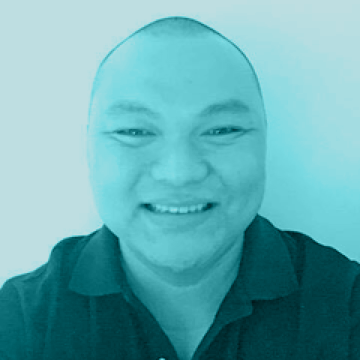
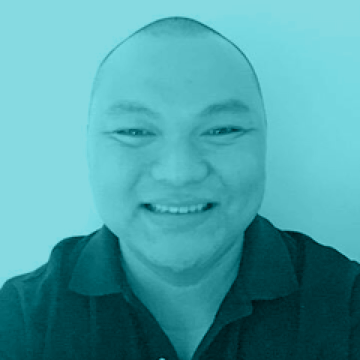
Reminders, speakers, partners

diff --git a/about/index.md b/about/index.md
@@ -16,7 +16,11 @@ The name FFC alludes to the 3 elements of a website (\<form\> from HTML, functio
 
 As the pioneering web design conference in the country and this side of the world, we have drawn crowds of over 300 professionals & students each year from the fields of design, development, IT, marketing, user experience, interaction design, mobile, business, and more.
 
-<a target="_blank" href="https://www.eventbrite.com/e/form-function-class-7-conference-tickets-24640606718#tickets">Get your ticket now</a>!
+<a target="_blank" href="https://www.eventbrite.com/e/form-function-class-7-conference-tickets-24640606718#tickets">Get your tickets now</a>! Registration closes on October 16.
+
+## Reminders
+
+Please take note of our important <a href="/reminders/">Reminders</a> for the event.
 
 ## Venue
 
@@ -51,7 +55,7 @@ Would you like to support FFC7? Reach out to our attendees, our audience on soci
 ## FAQ
 
 ### When does registration close?
-Registration closes on October 16, so get your tickets now!
+Registration closes on October 16, so <a target="_blank" href="https://www.eventbrite.com/e/form-function-class-7-conference-tickets-24640606718#tickets">get your tickets now</a>!
 
 ### For whom is this conference?
 Web designers, front-end designers & developers, user interface designers, interaction designers, mobile designers, user experience designers, graphic designers, web developers, webmasters, bloggers, marketers, social media managers who do web design, media practitioners, students in information technology, visual communication, multimedia arts, human computer interaction, and other related professions. If you work on web and mobile interfaces, FFC is for you.
@@ -101,7 +105,7 @@ Once deposited, please send an email with proof of payment to <a target="_blank"
 Please allow for at least 24 hours processing time.
 
 ### Can I get a student discount?
-Student tickets are available at the following discounted rates until October 16 through [offline payment](#can-i-pay-offline) & our student partner, <a target="_blank" href="http://dlsu-lscs.org/">La Salle Computer Society</a>:
+Student tickets are available at the following discounted rates until October 16 through [offline payment](#can-i-pay-offline) & our student partners, <a target="_blank" href="http://dlsu-lscs.org/">La Salle Computer Society</a> &amp; <a target="_blank" href="https://www.facebook.com/ustcodec/">UST CODEC</a>:
 
 - Conference (Oct 22) - 2,000
 - Masterclass (Oct 23) - 3,000
@@ -142,7 +146,7 @@ You're awesome! You can follow us on
 <a target="_blank" href="http://blog.pwdo.org">Tumblr</a> and share our posts there :) You can also use our <a target="_blank" href="https://github.com/pwdo/FFC-Social-Media">banners and avatars</a> to show your support for the event.
 
 ### Are you a legitimate organization?
-Yes, the Philippine Web Designers Organization, Inc. has been registered with the SEC as a non-profit organization since 2009, with BIR TIN 007-274-276.
+Yes, the Philippine Web Designers Organization, Inc. has been registered with the SEC as a non-profit organization since 2009, with BIR TIN 007-274-276 (NONVAT).
 
 ### I have more questions!
 Please send us an email at <a target="_blank" href="mailto:info@pwdo.org?subject=FFC7%20Question">info@pwdo.org</a>

diff --git a/speakers/index.md b/speakers/index.md
@@ -10,9 +10,9 @@ weight: 2
 
 # Speakers
 
-October 22 programme reminders: check-in registration starts at 7:30 am, doors will close at 8:50 am, and the first speaker shall begin at 9:00 am.
+October 22 programme reminders: check-in registration starts at 7:30 am, doors will close at 8:50 am, and the first speaker shall begin at 9:00 am. Please refer to the rest of our <a href="/reminders/">reminders here</a>.
 
-More speakers & details will be announced soon. <a target="_blank" href="https://www.eventbrite.com/e/form-function-class-7-conference-tickets-24640606718#tickets">Register for FFC7 now</a>!
+<a target="_blank" href="https://www.eventbrite.com/e/form-function-class-7-conference-tickets-24640606718#tickets">Get your FFC7 tickets now</a>! Registration ends on October 16.
 
 ## Morning Sessions
 
@@ -48,7 +48,7 @@ More speakers & details will be announced soon. <a target="_blank" href="https:/
 
   <h4 id="russell-vergara"><a target="_blank" href="http://www.vgrafiks.com">Russell Vergara</a></h4>
 
-  <figure class="speaker-img"><img src="/assets/speaker-lindsey.png" alt="Lindsey Grande"></figure> 
+  <figure class="speaker-img"><img src="/assets/speaker-russell.png" alt="Lindsey Grande"></figure> 
 
   He sold his first PUTO when he was six. He worked as a waiter for Burgoo, and as an In-room dining assistant at Sheraton Park Hotel. In London.  He’s an only child, so he’s kinda spoiled. He was 80 pounds lighter, nung hindi pa uso ang extra rice. He studied 7 courses 7 different schools. But he never graduated. He’s not very bright kasi. But he’s very madiskarte. He’s Russell. The Big Daddy of Vigi.
 
@@ -80,7 +80,7 @@ More speakers & details will be announced soon. <a target="_blank" href="https:/
 
 - <h3 id="sacha-greif"><a target="_blank" href="http://sachagreif.com">Sacha Greif</a> </h3>
 
-  #### The State of JavaScript
+  #### Matter of State 
 
   <figure class="speaker-img"><img src="/assets/speaker-sacha.png" alt="Sacha Greif"></figure> 
 

diff --git a/reminders/index.md b/reminders/index.md
@@ -11,7 +11,7 @@ hide-in-nav: yes
 
 -   ## Schedule &amp; Check-In  
 
-    On October 22, check-in starts at 7:00 am and doors will close at 8:50 am.
+    On October 22, check-in starts at 7:30 am and doors will close at 8:50 am.
 
     On October 23, check-in starts at 9:00 am and doors will close at 9:50 am.
 
@@ -21,13 +21,13 @@ hide-in-nav: yes
 
     All participants are expected to comply with the [Code of Conduct](https://medium.com/@PWDO/pwdo-code-of-conduct-16ab6ffb5f15).
 
-    Those who are found to violate the Code shall be: (a) facing sanctions, or (b) asked to leave the premises; or (c) banned from future PWDO events; or (d) one or more of the above.
+    Those who are found to violate the Code shall be: (a) facing sanctions: (b) asked to leave the premises; (c) banned from future PWDO events; (d) one or more of the above.
 
 -   ## Devices &amp; Internet 
 
     For the Conference on October 22, bringing your laptop is not required, but you can do so.
 
-    For the Masterclass on October 23, we highly recommend bringing your laptop so you can follow along. 
+    For the Masterclass on October 23, we highly recommend bringing your laptop.
 
     Internet and extension cords will be available at the venue, but if you want to play it safe, make sure your gadgets are fully charged and you have a reliable source of internet as well.
 
@@ -41,7 +41,7 @@ hide-in-nav: yes
 
 -   ## Transportation 
 
-    Uber has a special promo code for new users going to FFC! Just enter "FFCPH" in the app to enjoy a 200-peso discount for UberPool, UberX, and UberHop rides for newcomers. 
+    Uber has a special promo code for new users who are FFC participants! Enter "FFCPH" in the Promotions tab in the app from October 22 (12:59 am) to October 23 (11:59 pm) to enjoy a 100-peso discount for the first two rides (applies to UberX, UberPool, UberHop).
 
     For more Venue tips, [click here](/about/#venue).
 

diff --git a/masterclass/index.md b/masterclass/index.md
@@ -14,7 +14,7 @@ weight: 3
 
 ### 23 October 2016, 10:00 AM <br> Hive Hotel, <abbr title="Quezon City">Q.C.</abbr>
 
-This year, Holger Bartel dives into the technical details of front-end performance and optimization: how you can supercharge your sites & webapps to load faster, respond quicker, and behave more reliably. Limited slots are available, so <a target="_blank" href="https://www.eventbrite.com/e/form-function-class-7-conference-tickets-24640606718#tickets">get your tickets now</a>!
+This year, Holger Bartel dives into the technical details of front-end performance and optimization: how you can supercharge your sites & webapps to load faster, respond quicker, and behave more reliably. Limited slots are available, so <a target="_blank" href="https://www.eventbrite.com/e/form-function-class-7-conference-tickets-24640606718#tickets">get your tickets now</a>! Registration ends on October 16.
 
 You will learn about performance strategies, as well as basic and more advanced web performance best practices, how to implement and how to measure them. Reaping the low hanging fruit will teach you how to reach performance improvements and goals rather quickly, while other techniques require more time, effort and testing to achieve the desired results.
 
@@ -40,4 +40,4 @@ No stranger to the Form Function & Class conference, <a href="http://foobartel.c
 
 ### Programme
 
-October 23 reminders: the Masterclass will start at 10:00 am. Further details will be posted shortly.
+October 23 reminders: check-in registration starts at 9:00 am, doors close at 9:50 am, and the masterclass shall begin at 10:00 am. Please refer to the rest of our <a href="/reminders/">reminders here</a>.

diff --git a/index.md b/index.md
@@ -24,6 +24,7 @@ Student discounts, group discounts, offline payment available. <a target="_blank
     <a class="partner" target="_blank" href="https://www.facebook.com/ustcodec/"><img src="/assets/partner-ustcodec.png" alt="UST Coders Development Circle" height="120"></a>
     <a class="partner" target="_blank" href="https://www.facebook.com/TomasinoWeb/"><img src="/assets/partner-usttomasinoweb.png" alt="UST TomasinoWeb" height="100"></a>
     <a class="partner" target="_blank" href="http://dlsu-lscs.org/"><img src="/assets/partner-lscs.png" alt="DLSU La Salle Computer Society" height="120"></a>
+    <a class="partner" target="_blank" href="https://www.facebook.com/USTInformationSystemsSociety/"><img src="/assets/partner-ustiss.png" alt="UST Information Systems Society" height="120"></a>
 </p>
 <p class="sponsor-row">
     <a class="partner" target="_blank" href="https://balsamiq.com/"><img src="/assets/partner-balsamiq.png" alt="Balsamiq" height="50"></a>
